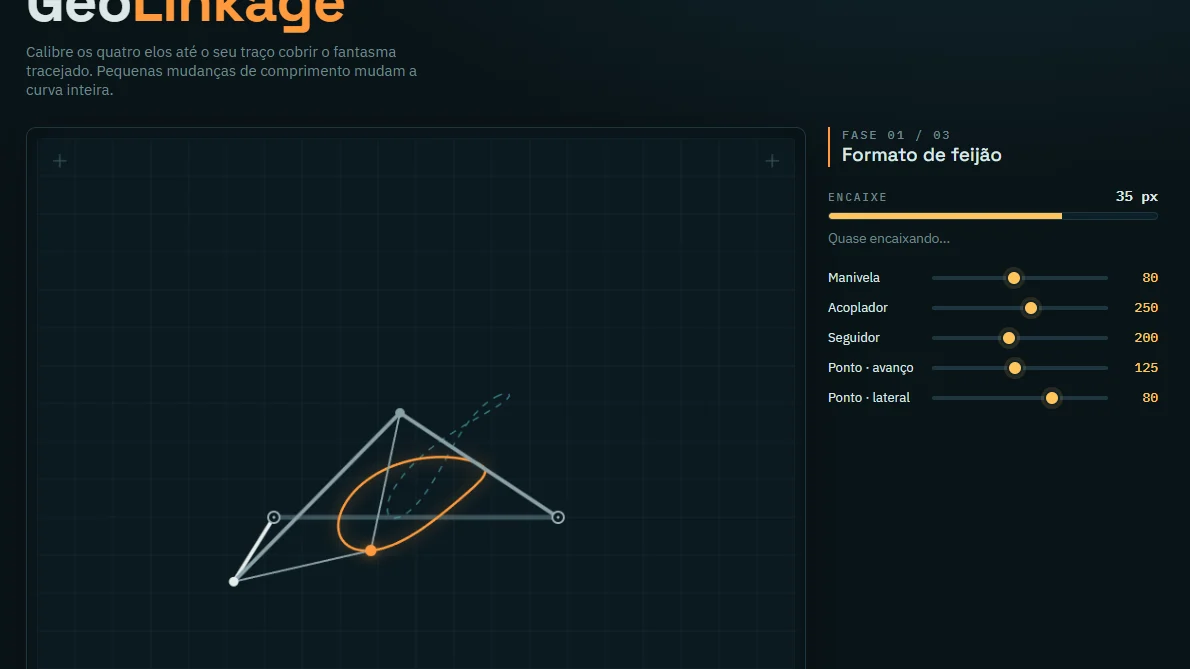
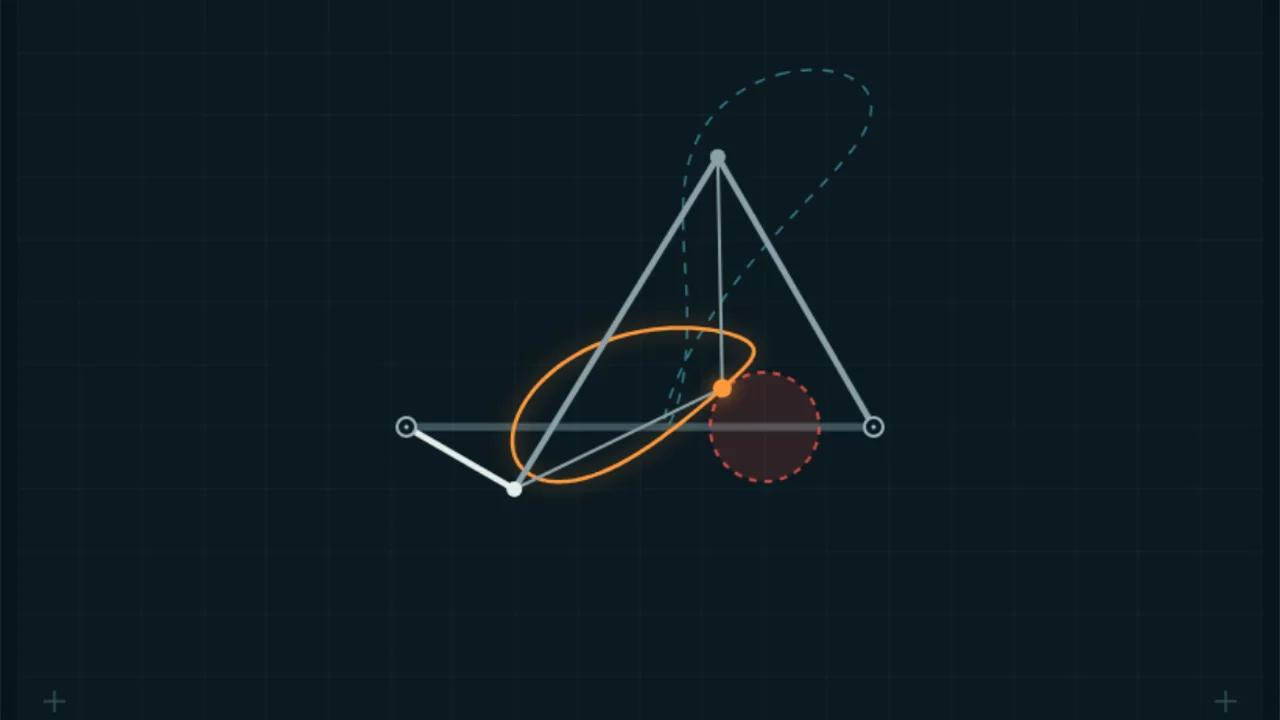
Add GeoLinkage gameplay prints and code, credit pendulum assignment, reorder projects
Claude-Session: https://claude.ai/code/session_01PkFuHqjNpkrZZv1ih1N9cz

diff --git a/site/projects/geolinkage/code/cinematica.js b/site/projects/geolinkage/code/cinematica.js
@@ -1,0 +1,51 @@
+// Trecho do núcleo do jogo (index.html do repositório GeoLinkage): as fases,
+// a cinemática do mecanismo de 4 barras e a pontuação do encaixe.
+// Origem do mecanismo: pino da manivela em (250, 400) e pino do seguidor em (550, 400).
+
+const FASES = [
+    { nome:"Formato de feijão",
+      alvo:{ manivela:80, acoplador:200, seguidor:260, aoLongo:160, paraOLado:120 },
+      inicio:{ manivela:80, acoplador:250, seguidor:200, aoLongo:125, paraOLado:80 }, limite:15 },
+    { nome:"Asa fina",
+      alvo:{ manivela:60, acoplador:300, seguidor:300, aoLongo:100, paraOLado:-140 },
+      inicio:{ manivela:100, acoplador:200, seguidor:200, aoLongo:150, paraOLado:80 }, limite:15 },
+    { nome:"Desvie da zona proibida",
+      alvo:{ manivela:100, acoplador:180, seguidor:240, aoLongo:250, paraOLado:90 },
+      inicio:{ manivela:80, acoplador:250, seguidor:200, aoLongo:125, paraOLado:80 }, limite:15,
+      zona:{ x:480, y:400, r:35 } },
+];
+let faseAtual = 0, fase = null, alvo = [];
+
+// ---- cinemática pura ----
+function acharB(ax, ay, ox, oy, b, c) {
+    const dx = ox-ax, dy = oy-ay, D = Math.sqrt(dx*dx+dy*dy);
+    if (D > b+c || D < Math.abs(b-c)) return null;
+    const aDist = (b*b-c*c+D*D)/(2*D), h = Math.sqrt(b*b-aDist*aDist);
+    const mx = ax+aDist*dx/D, my = ay+aDist*dy/D;
+    return { x: mx+h*dy/D, y: my-h*dx/D };
+}
+function gerarCurva(manivela, acoplador, seguidor, aoLongo, paraOLado) {
+    const pts = [];
+    for (let g = 0; g <= 360; g += 2) {
+        const ang = g*Math.PI/180;
+        const ax = 250 + manivela*Math.cos(ang), ay = 400 - manivela*Math.sin(ang);
+        const B = acharB(ax, ay, 550, 400, acoplador, seguidor);
+        if (!B) continue;
+        const ex = (B.x-ax)/acoplador, ey = (B.y-ay)/acoplador;
+        pts.push({ x: ax+aoLongo*ex+paraOLado*(-ey), y: ay+aoLongo*ey+paraOLado*ex });
+    }
+    return pts;
+}
+function distanciaMedia(A, B) {
+    let soma = 0;
+    for (const p of A) {
+        let melhor = Infinity;
+        for (const q of B) { const d=(p.x-q.x)**2+(p.y-q.y)**2; if (d<melhor) melhor=d; }
+        soma += Math.sqrt(melhor);
+    }
+    return soma / A.length;
+}
+function pontuar(A, B) {
+    if (A.length === 0 || B.length === 0) return Infinity;
+    return (distanciaMedia(A,B) + distanciaMedia(B,A)) / 2;
+}

diff --git a/site/css/style.css b/site/css/style.css
@@ -33,8 +33,7 @@ figcaption{font-size:.8rem;color:var(--muted);padding-top:8px}
 .muted{color:var(--muted)}
 .grid{display:grid;grid-template-columns:1fr;gap:24px}
 .card{display:block;text-decoration:none;border-top:1px solid var(--ink);padding-top:12px}
-.card img{display:block;width:100%;aspect-ratio:16/9;object-fit:cover;background:#ddd;filter:grayscale(1);transition:filter .2s}
-.card:hover img,.card:focus-visible img{filter:none}
+.card img{display:block;width:100%;aspect-ratio:16/9;object-fit:cover;background:#ddd}
 .card h3{font:800 1.25rem/1.2 Syne,sans-serif;text-transform:uppercase;margin:14px 0 6px}
 .card p{margin:0 0 8px;color:var(--muted);font-size:.95rem}
 .tags{list-style:none;display:flex;flex-wrap:wrap;gap:6px;padding:0;margin:0}
@@ -67,7 +66,7 @@ pre code.hljs{padding:16px;font:.85rem/1.5 ui-monospace,Menlo,Consolas,monospace
   .cv li{grid-template-columns:180px 1fr;gap:24px}
 }
 @media (min-width:1100px){.grid{grid-template-columns:repeat(3,1fr)}.block{grid-template-columns:300px 1fr}}
-@media (prefers-reduced-motion:reduce){html{scroll-behavior:auto}.card img{transition:none}}
+@media (prefers-reduced-motion:reduce){html{scroll-behavior:auto}}
 /* logos e imagens dinâmicas */
 .hero-img img{display:block;width:100%;height:clamp(260px,42vw,640px);object-fit:cover}
 .cv-item{display:flex;gap:16px;align-items:flex-start}

diff --git a/docs/PLANO.md b/docs/PLANO.md
@@ -40,5 +40,5 @@ Status: `[ ]` a fazer · `[~]` em andamento · `[x]` feito
 - Visualizador STL usa three.js 0.160.0 via importmap; model-viewer 3.5.0 não foi exercitado (sem .glb de teste).
 - Contato: e-mail institucional e links do LinkedIn e do GitHub estão públicos em `site/data/site.json` com aprovação do dono; GitHub (`flaviocoding22`) assumido pelo dono da sessão, confirmar.
 - Currículo e competências preenchidos a partir do LinkedIn (prints do dono). Faltam foto, PDF e previsão de formatura.
-- Pêndulo: prints geradas offscreen com a fonte padrão do Matplotlib; trocar por capturas da janela real (Windows) quando possível. Perguntar ao dono o que significa "trabalho do Leopoldo" no README antes de citar na página.
-- GeoLinkage: link do jogo (github.io/GeoLinkage) respondeu 200 em teste; conferir se o dono quer destacar o jogo ou deixá-lo em segundo plano.
+- Pêndulo: prints geradas offscreen com a fonte padrão do Matplotlib; trocar por capturas da janela real (Windows) quando possível. A página cita que foi trabalho proposto pelo professor Leopoldo (informado pelo dono).
+- GeoLinkage: link do jogo (github.io/GeoLinkage) respondeu 200 em teste; jogo posicionado depois da suspensão Tupã, a pedido do dono. Prints geradas jogando o código headless.
